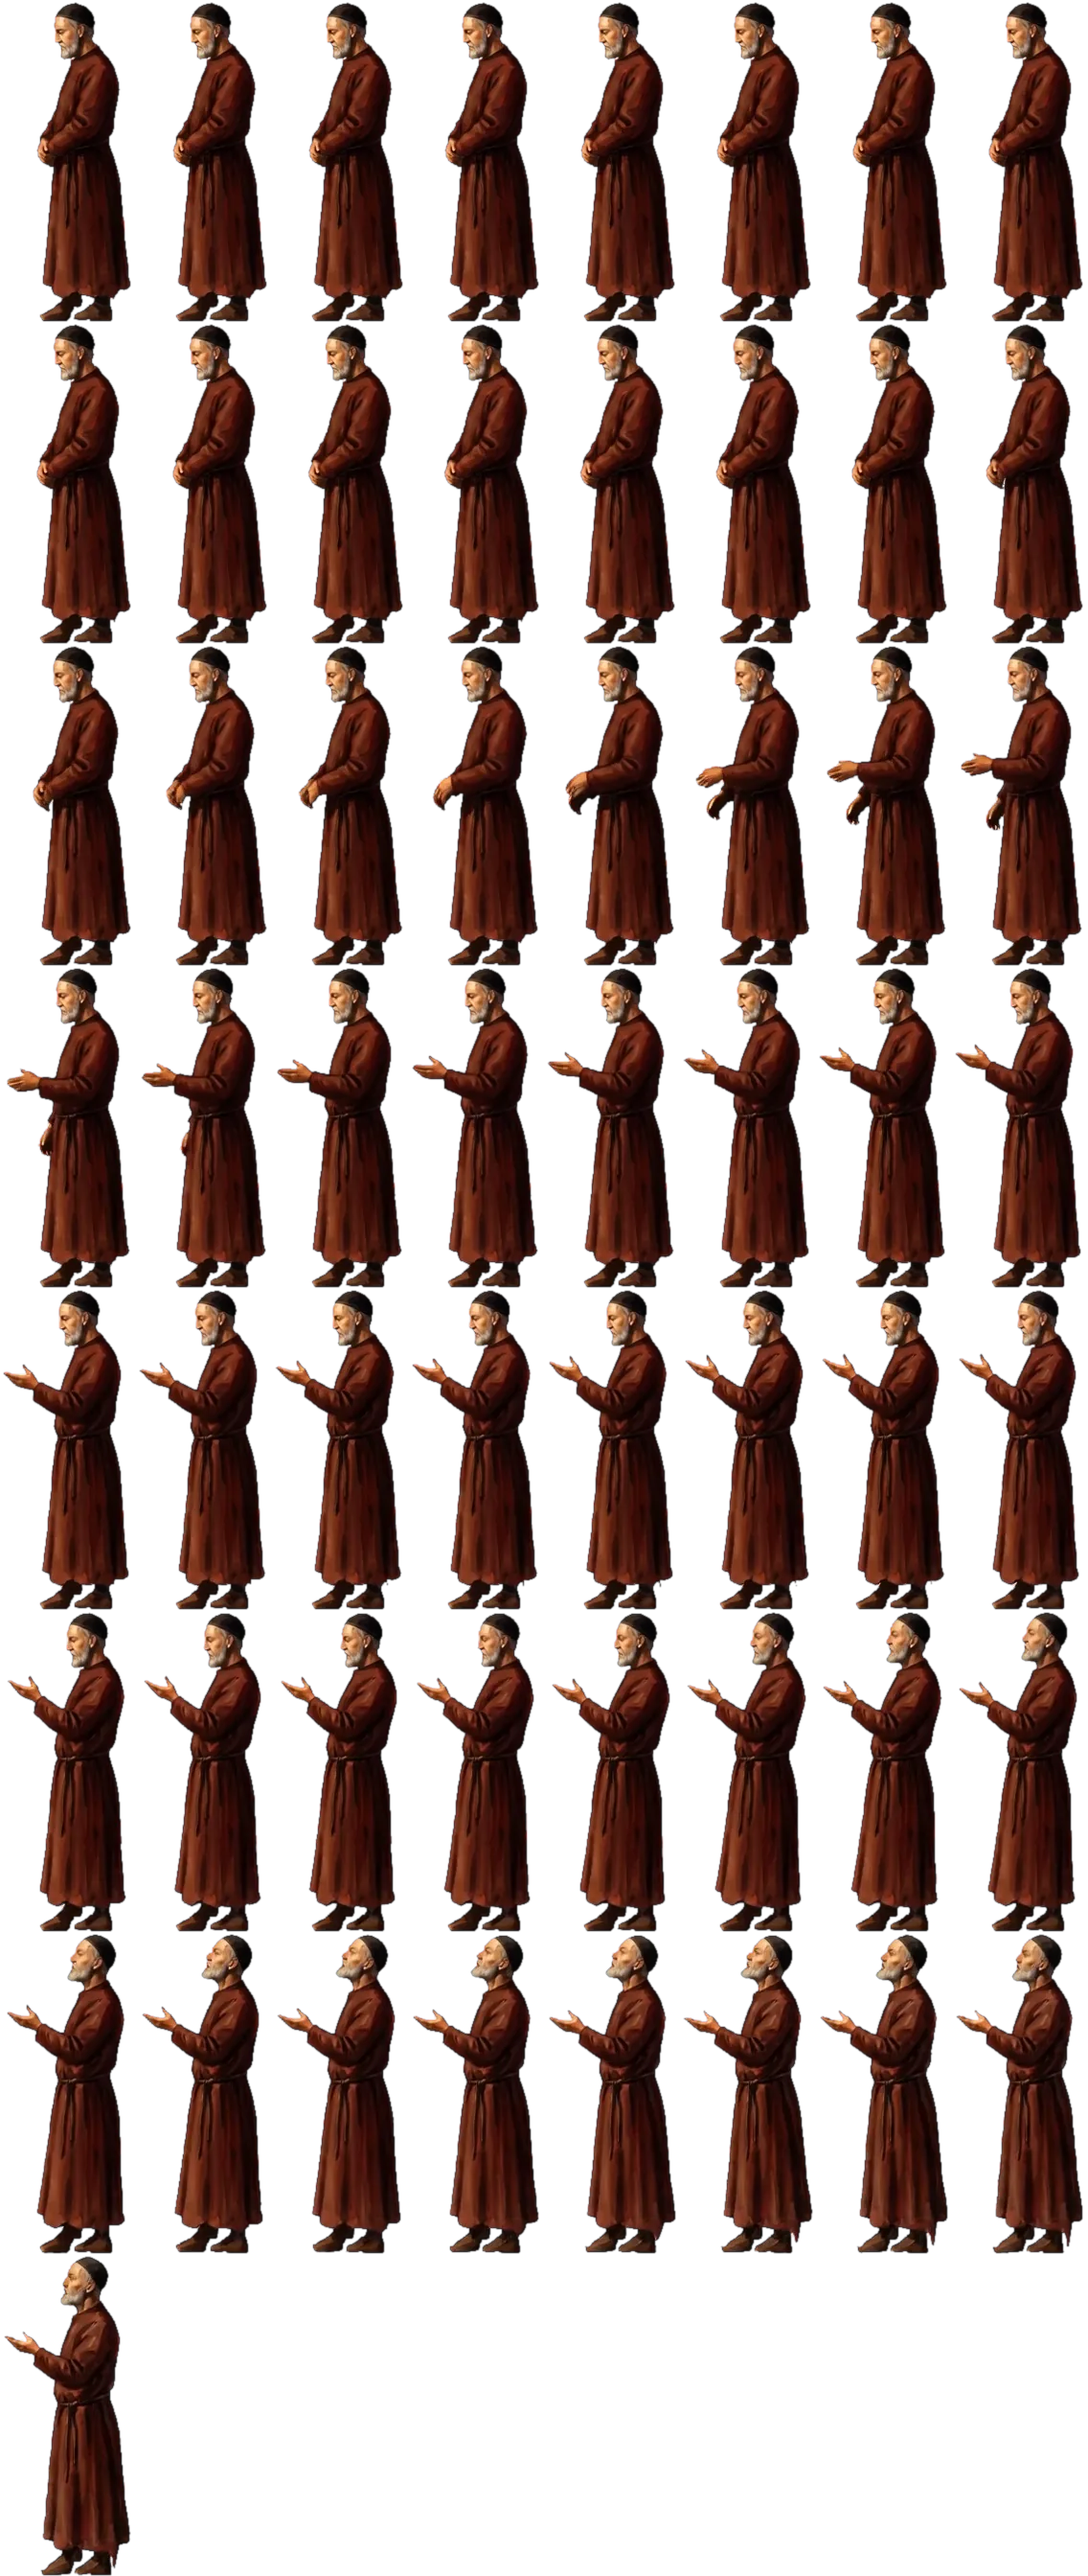
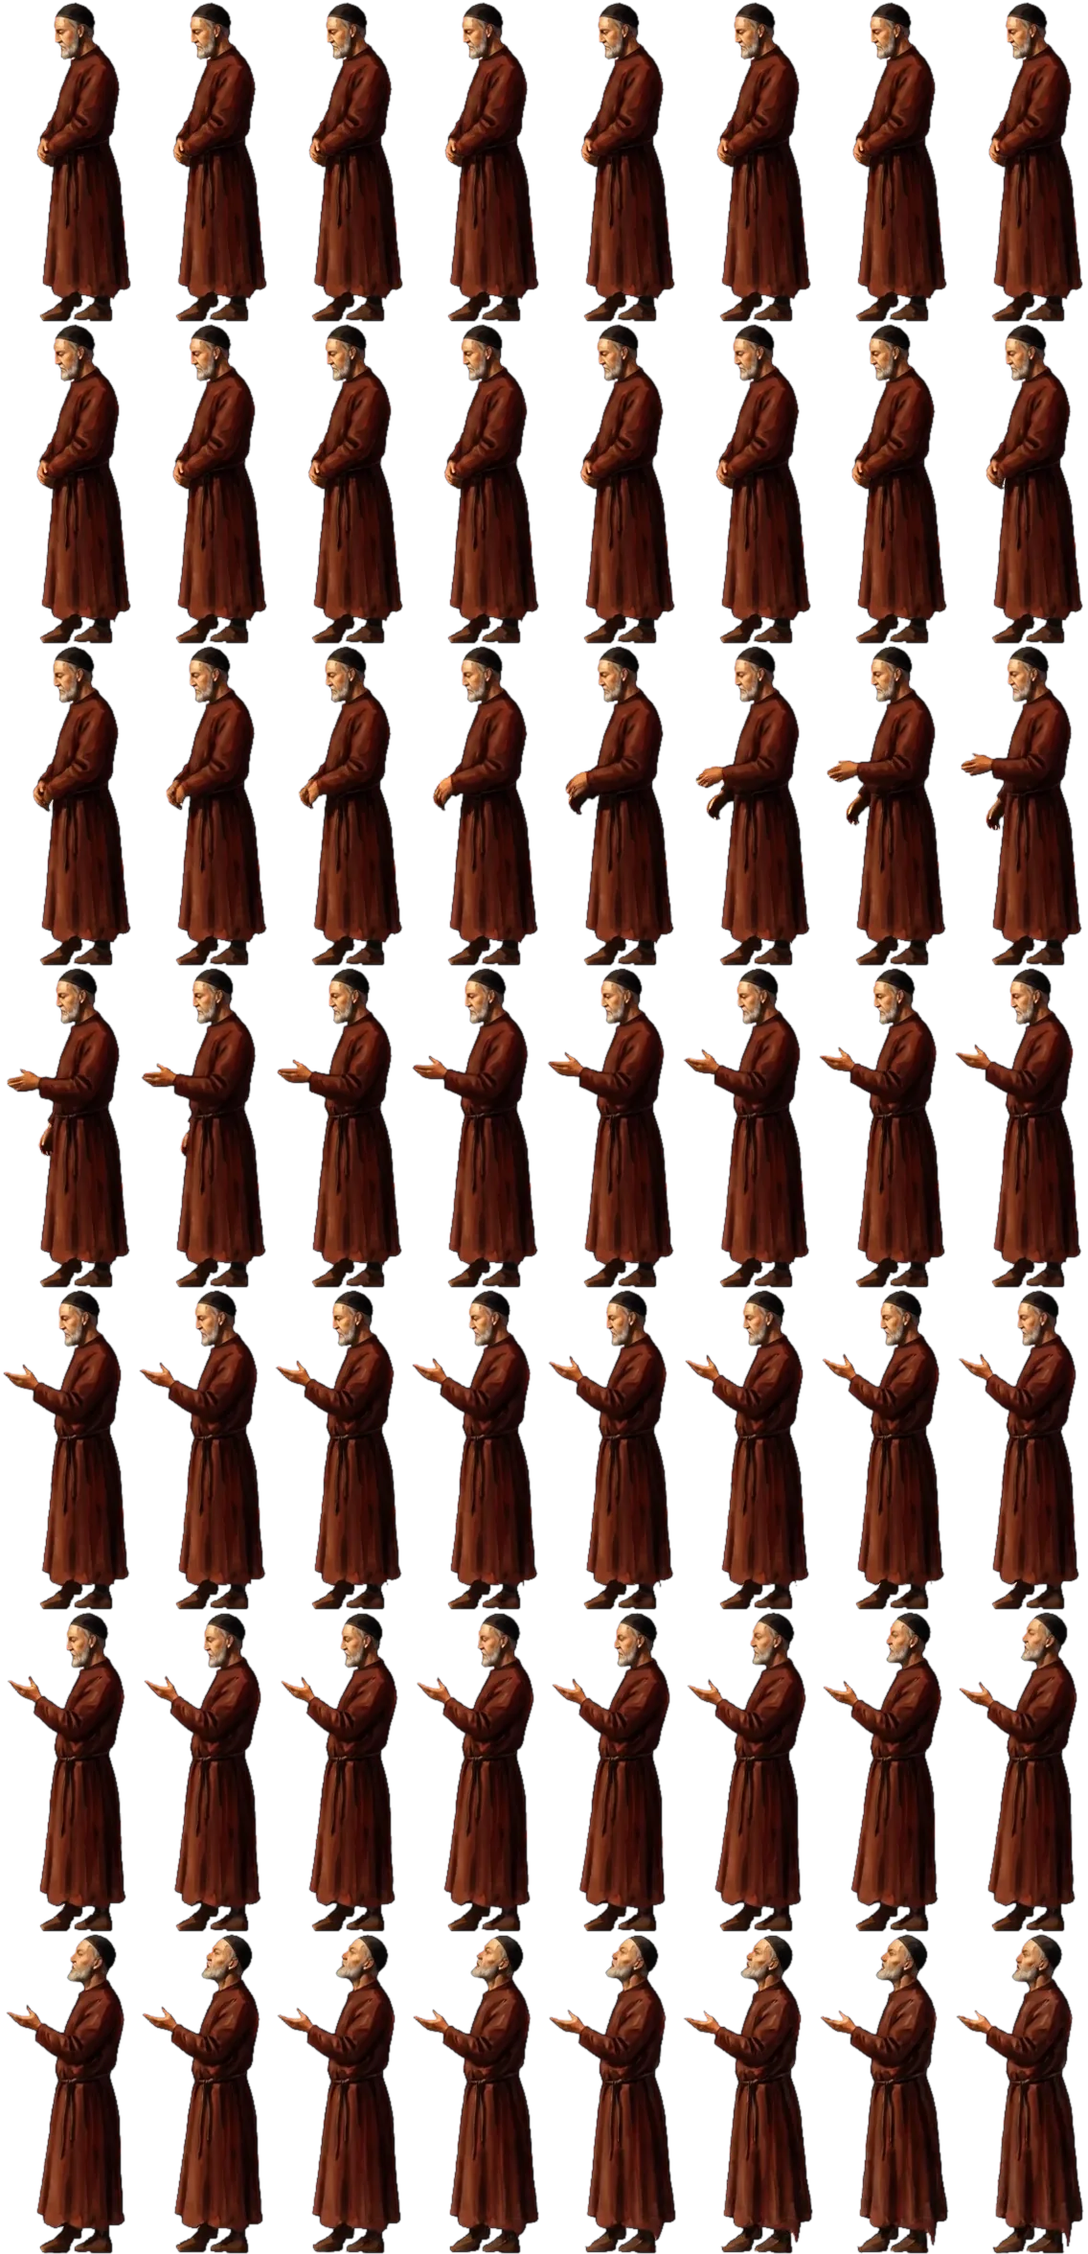
Build 289: the Interpreter's face whole again; the children child-sized
Claude-Session: https://claude.ai/code/session_017HrTSHVVMcxEhGjUti4Zrs

diff --git a/rooms.js b/rooms.js
@@ -28,7 +28,7 @@ const RM = (() => {
   const darkOn = () => { try { return localStorage.getItem('pp-dark') === '1'; } catch (e) { return false; } };
 
   // the two visitors (sprites face LEFT as made; face 1 = turned to face right)
-  const VIS = { C: { n: 'room-christian', ax: 92, g: 631, who: 'Christian', ph: 0, ct: 1.2, mul: .62, sat: .42, warm: [1, 1, 1], walk: { n: 'room-christian-walk', ax: 117, g: 355, s: 632 / 347, ct: 1.2, mul: .62, sat: .42, cols: 8, fr: 15, W: 192, H: 359, vpx: 6 } }, I: { n: 'room-interpreter', ax: 107, g: 634, who: I, ph: 1.7, ct: 1.15, mul: .66, sat: .45, walk: { n: 'room-interpreter-walk', ax: 102, g: 374, s: 635 / 364, ct: 1.15, mul: .66, sat: .45, cols: 8, fr: 27, W: 184, H: 376, vpx: 6 }, say: { n: 'room-interpreter-say', ax: 82, g: 334, s: 635 / 331, ct: 1.15, mul: .66, sat: .45, cols: 8, fr: 57, W: 142, H: 336 } } };
+  const VIS = { C: { n: 'room-christian', ax: 92, g: 631, who: 'Christian', ph: 0, ct: 1.2, mul: .62, sat: .42, warm: [1, 1, 1], walk: { n: 'room-christian-walk', ax: 117, g: 355, s: 632 / 347, ct: 1.2, mul: .62, sat: .42, cols: 8, fr: 15, W: 192, H: 359, vpx: 6 } }, I: { n: 'room-interpreter', ax: 107, g: 634, who: I, ph: 1.7, ct: 1.15, mul: .66, sat: .45, walk: { n: 'room-interpreter-walk', ax: 102, g: 374, s: 635 / 365, ct: 1.15, mul: .66, sat: .45, cols: 8, fr: 27, W: 184, H: 376, vpx: 6 }, say: { n: 'room-interpreter-say', ax: 84, g: 334, s: 635 / 331, ct: 1.15, mul: .66, sat: .45, cols: 8, fr: 56, W: 142, H: 336 } } };
   const BRAVE = { plain: { n: 'room5-brave', ax: 94, g: 519 }, armed: { n: 'room5-brave-armed', ax: 123, g: 536 } };
 
   let R = null, t = 0, ph = '', cam = { x: 0, to: 0 }, fade = 1, fadeTo = 0, after = null, toned = {}, startId = 'door', motes = [];
@@ -202,7 +202,7 @@ const RM = (() => {
     },
     // 1 THE PICTURE (after Rembrandt's Apostle Paul): the room dark but for the servant's taper; he lights the candle
     r1: {
-      pic: 'room1', FY: 1262, cam0: 244, tone: [205, 185, 165], k: 1.06,
+      pic: 'room1', FY: 1262, cam0: 244, tone: [205, 185, 165], k: 1.48,
       light() { return { x: 1478, a: .32 * smooth(.3, 1, this.lit) * (1 + .05 * Math.sin(G.t / 5)), col: [255, 196, 130] }; },
       enter() { this.lit = 0; },
       run() { talk([[TIP, 'Touch the candle.', 'candle']], () => { ph = 'light'; t = 0; G.state = 'auto'; }); },
@@ -259,7 +259,7 @@ const RM = (() => {
     },
     // 3 PASSION AND PATIENCE (after Chardin's Soap Bubbles): the bag, the gold, the bubbles, the rags
     r3: {
-      pic: 'room3', FY: 1235, PW: 2561, cam0: 13, tone: [255, 255, 255],
+      pic: 'room3', FY: 1235, PW: 2561, cam0: 13, tone: [255, 255, 255], k: 1.3,
       enter() {
         this.bag = { show: false, a: 0, tip: 0, empty: 0 }; this.coins = []; this.bubbles = []; this.great = null; this.rags = 0; pic('room3-rags');
       },
@@ -293,7 +293,7 @@ const RM = (() => {
         const g = this.great; if (g) { g.life++; g.r = Math.min(g.R, g.r + .47); if (!g.pop) { g.y -= 1.45 * smooth(0, 60, g.life); g.x += Math.sin(g.life / 70) * .8; if (g.life > g.L) { g.pop = 1; note(91, .02, 1.4); } } else g.pop++; }
       },
       under(c) { if (this.rags > 0 && pics['room3-rags']) { c.globalAlpha = smooth(0, 1, this.rags); c.drawImage(pics['room3-rags'], u(700), v(600), 570 * S, 720 * S); c.globalAlpha = 1; } },
-      people(c) { visitor(c, 'I', 2450, -1, 1, 1, 10); visitor(c, 'C', 2170, -1); },
+      people(c) { visitor(c, 'I', 2460, -1, R.k, 1, 10); visitor(c, 'C', 2060, -1); },
       over(c) { drawBag(c, this.bag); drawCoins(c, this.coins); for (const b of this.bubbles) bubble(c, u(b.x), v(b.y), b.r * S, b.pop); if (this.great) bubble(c, u(this.great.x), v(this.great.y), this.great.r * S, this.great.pop); },
     },
     // 4 THE FIRE FED WITH OIL (after La Tour's St Joseph the Carpenter): round the back of the wall

diff --git a/index.html b/index.html
@@ -156,7 +156,7 @@ body.portrait #rot{display:block}
     <button class="btn" id="again">Walk again</button>
   </div>
   <button id="snd" aria-label="Sound on or off">♪</button>
-  <div id="build">build 288 · Nov 17 2026</div>
+  <div id="build">build 289 · Nov 17 2026</div>
 </div></div>
 <div id="rot">Turn your phone sideways for a bigger picture</div>
 <script>
@@ -2519,7 +2519,7 @@ document.getElementById('on2').onclick = () => SL.on ? go3() : HL.on ? goRoom('d
 </script>
 <script src="slough.js?v=271"></script>
 <script src="hill.js?v=286"></script>
-<script src="rooms.js?v=284"></script>
+<script src="rooms.js?v=289"></script>
 <script src="keepsakes.js?v=261"></script>
 <script src="editor.js?v=261"></script>
 </body>

diff --git a/story-lab.html b/story-lab.html
@@ -3,4 +3,4 @@
 <title>Pilgrim's Progress</title>
 <!-- The game moved to the main page in build 119. This page only sends old links (and Home Screen icons) on to it. -->
 <script>location.replace('./' + location.search + location.hash);</script>
-<p><a href="./">Pilgrim's Progress</a> <span id="build">build 288 · Nov 17 2026</span></p>
+<p><a href="./">Pilgrim's Progress</a> <span id="build">build 289 · Nov 17 2026</span></p>

diff --git a/CLAUDE.md b/CLAUDE.md
@@ -374,6 +374,8 @@ Owner: "is there a way to get pause and get menu that allows us to navigate away
 
 **Build 284: the two free walks in the house (owner: "yes please do").** From the first day's free clips (`clips` branch): the Interpreter walking and Christian walking, both in the painted manner, each cut to one clean loop (`walkcut.py` in the session scratchpad: the loop found by the closest silhouette after frame 20, the planted foot's slide measured by matching the bottom rows frame to frame: 6 video px a frame for both) on a sheet: `assets/room-interpreter-walk.webp` (27 frames) and `room-christian-walk.webp` (15 frames), mirrored to face left like the other room figures. `VIS.C.walk`, `VIS.I.walk` ({cols, fr, W, H, ax at the torso, g, `s` to match the standing figure's height, `vpx`}); `walkFig()` draws frame f; `walkSpeed(key, k)` is the floor speed at which the planted foot stays put at the video's own pace (`WALK_FPT` 16/60: the video's 16 frames a second, never sped up). **The passage:** both walk at their own pace (the Interpreter's frames turn a little slower to match Christian's floor speed), the candle's light at the Interpreter's hands, a step sound at each of Christian's steps; the passage is shorter (900, was 1500) so it still takes about 5 s. **Leaving:** Christian walks out past the lit door in his painted walk (the grey walk pictures, `walker()`, stand in only until the sheet loads) and fades from 2800. The Interpreter's gesture (build 278) stays.
 
+**Build 289: the Interpreter's face whole again; the children child-sized (owner: "interpretors mouth looks funny (something about clipping didn't turn out)"; "kids in level (first especially but also patience and passion) are much too big relative to adults").** (1) Cutting the video frames from their white paper also cleared every near-white pixel INSIDE the figure, so his white beard and the pale skin of his lips were cut away and his profile ran flat from nose to beard. Now paper is cleared only in the lowest tenth of the figure (between the feet); the gesture and both walks were cut again (`walkcut.py`, its `all` mode for a gesture; the gesture is now 56 frames, `ax` 84). **Rule: when cutting a figure from white, never clear white inside it except between the feet.** (2) Room 1's servant boy stood as tall as the men: the visitors there are 1.48 (was 1.06); room 3's seated boys were nearly half a man's height: the visitors there are 1.3, Christian at 2060, the Interpreter in the arch at 2460 (his size had been fixed at 1 in code). A free talking clip of the Interpreter (lips and beard moving, drawn large for a sharper face) is queued on the `clips` branch (`interp-talk`; the runner now takes one frame of a sheet, `cell`).
+
 **Nothing is built** (but the house, above) The other chat designs the picture first; then a file `gate.js` (object like `SL`/`HL`), a title button 4, `go4()`, Level 3's end card "Go on".
 
 **Proposed picture (agreed master for the wicket-gate: Rembrandt, one warm light in a great dark):** night or deep dusk; a long dark wall; the little gate opened a hand's breadth at the end of Level 3, now opened wide: warm light pours out low and flat (the Level 1 rule: a flat pool, never a shape down the picture); Good-will a grave old figure in that light. Far to the left, a dark castle on a rise (Beelzebub's, `{62}`), seen only as a silhouette. Inside the gate: the narrow way, ruler-straight, running away under the far light, with crooked wide ways butting onto it (`{67}`), drawn as pale lines in the flat side view (they must not run down the picture toward us: lay them along the ground as bands that meet the way).

diff --git a/HANDOFF.md b/HANDOFF.md
@@ -6,6 +6,8 @@ The game is `index.html` (Level 1 in the page, Level 2 in `slough.js`; no build 
 
 **The keepsakes have their own chat now** ("Pilgrim's Progress: the keepsakes (Bible, roll, title book)", https://claude.ai/code/session_017HrTSDUqJDSdrXPbhc33zT). Open question there: the wax seal on Evangelist's roll is ours, not the book's (`{14}` has no seal; the sealed roll is given at the Cross, `{94}`): take it off and keep `waxSeal()` for Level 5, or keep it as a departure.
 
+**Build 289 (room 3 chat): the Interpreter's lips and beard no longer cut away; rooms 1 and 3's children now child-sized beside the men; a talking clip queued for the free daily run. Nothing spent. See `CLAUDE.md`, "Build 289".**
+
 **Build 286 (Level 3 art chat): a softer glow on the figures; the village smaller and peeking out from behind the mountain's left side (a new tree-less picture still to make). A free image model found: FLUX.1 Kontext on Hugging Face (see CLAUDE.md, build 286). Nothing spent.**
 
 **Build 288 (Level 2 chat):** a thin pale sliver left between Help's legs in `help-turn.pack` cleared (second, finer pass). Nothing spent.
